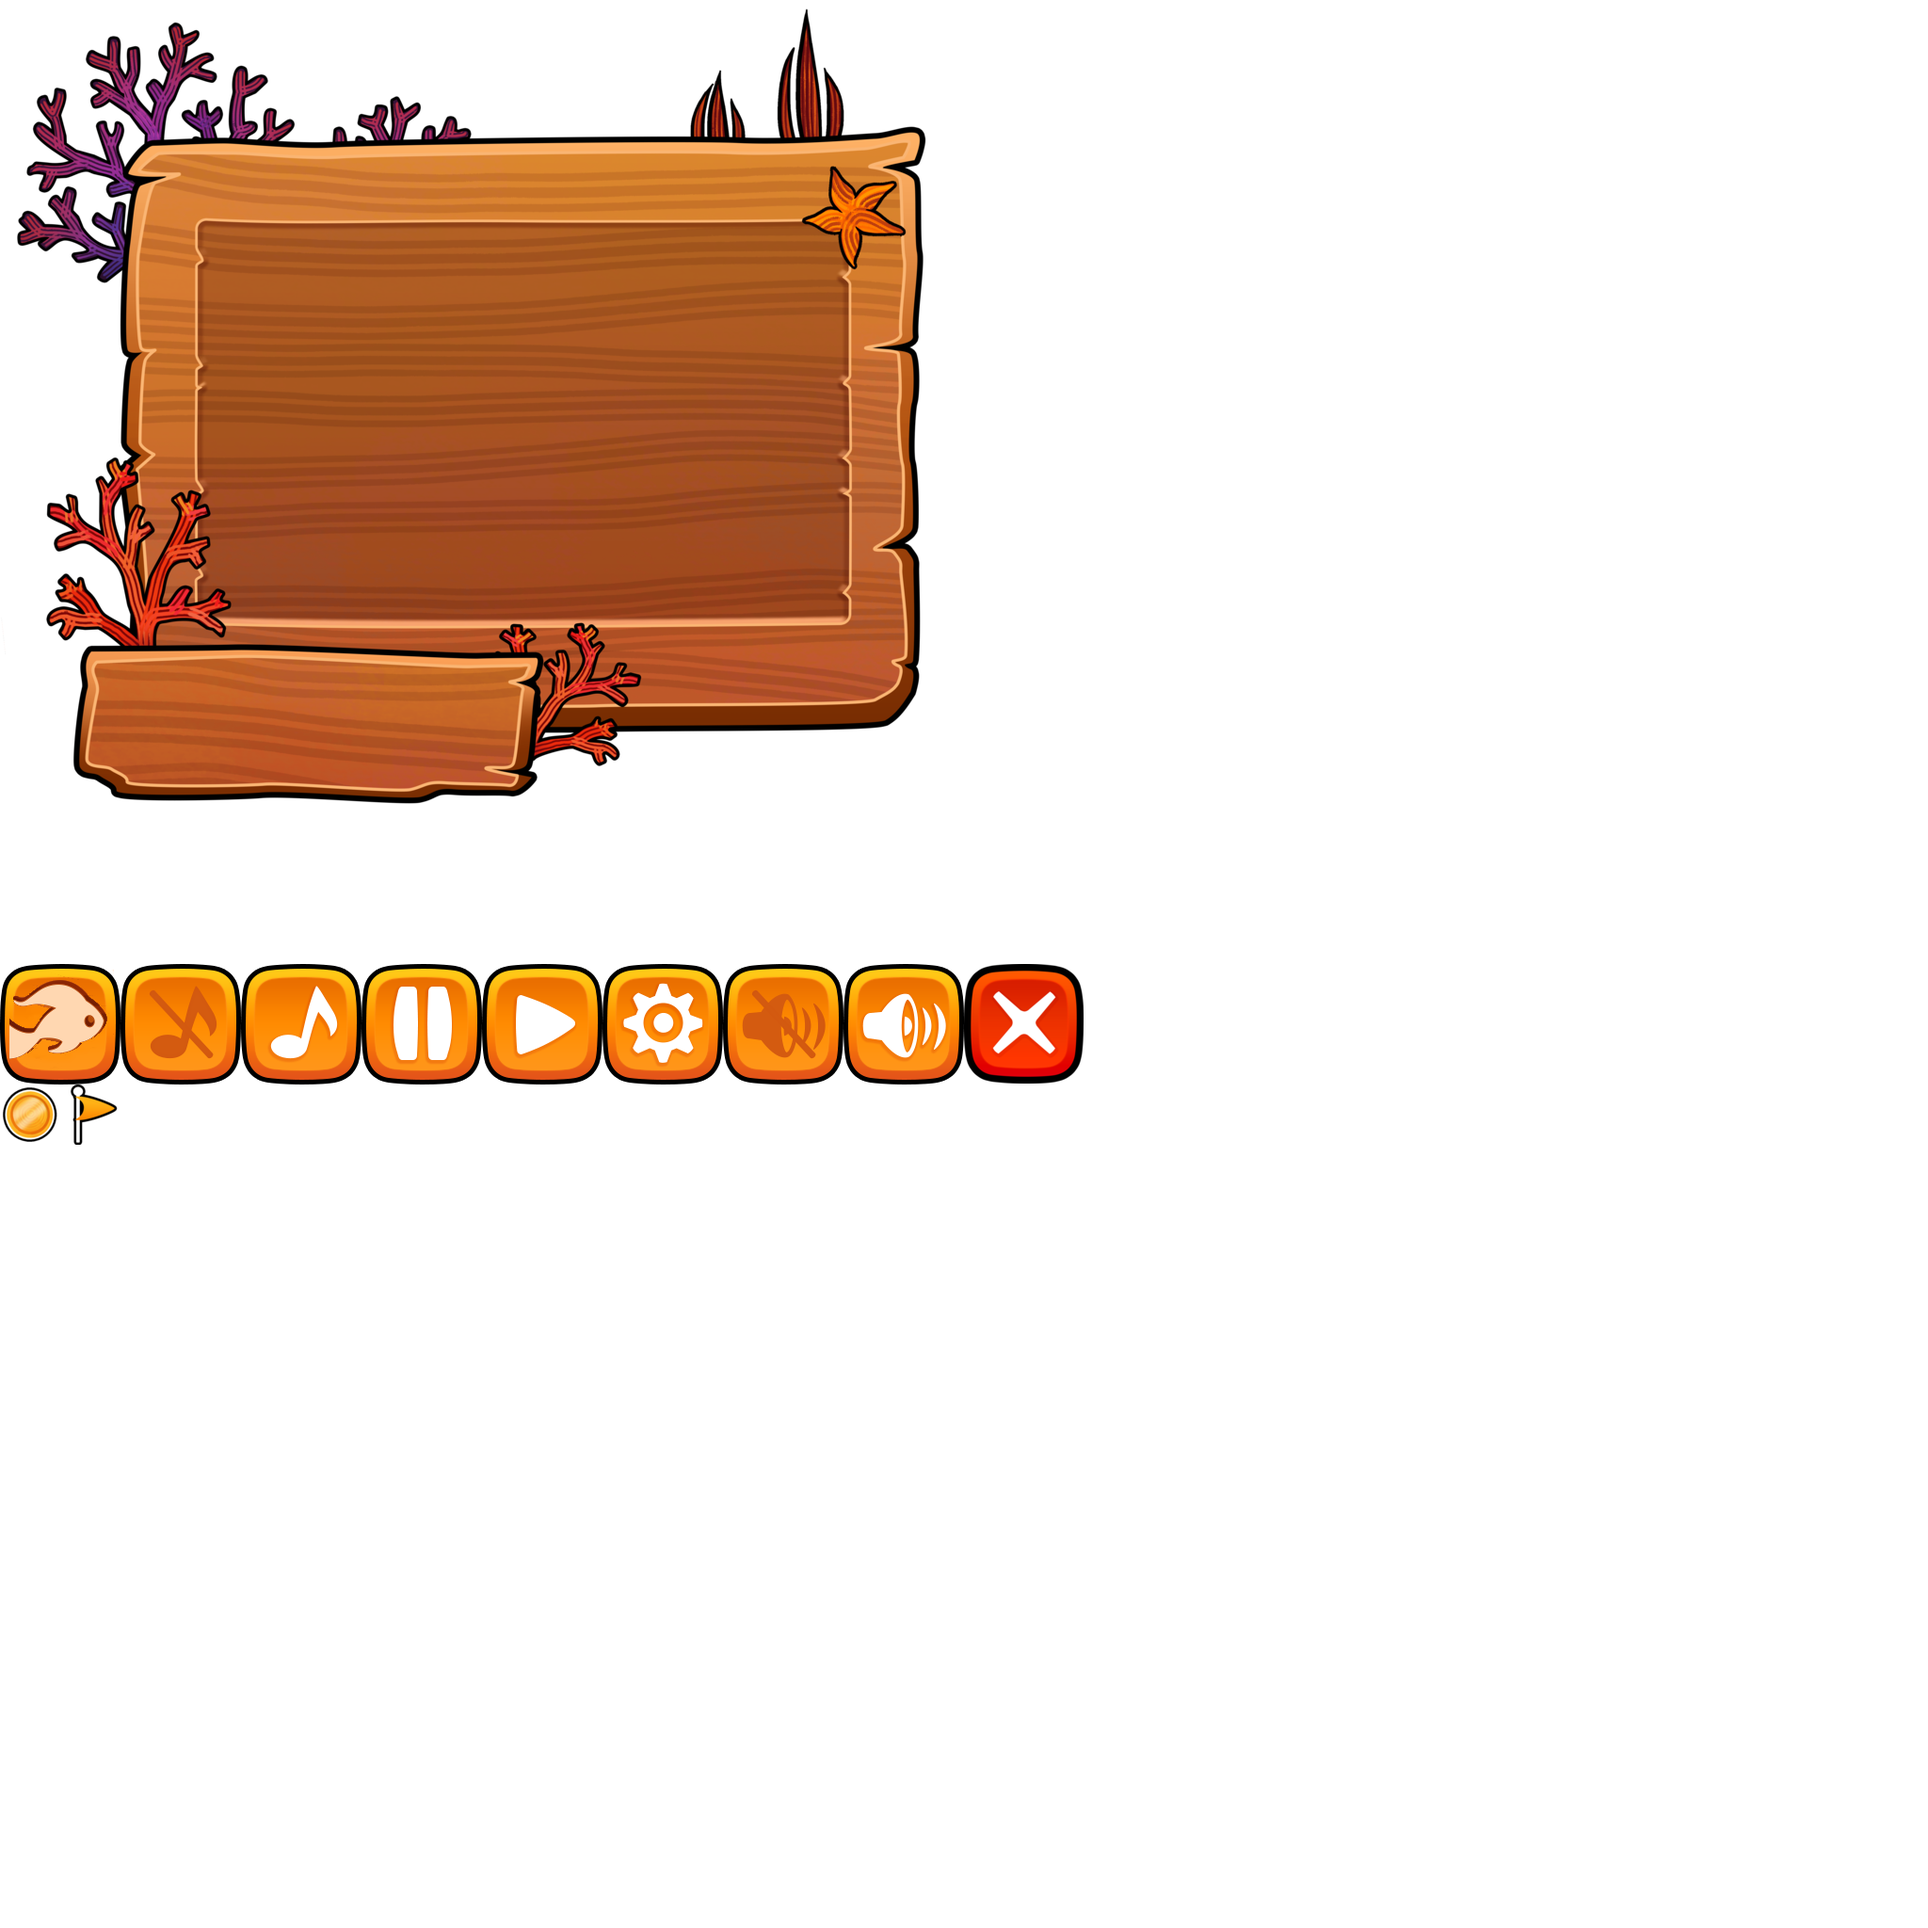
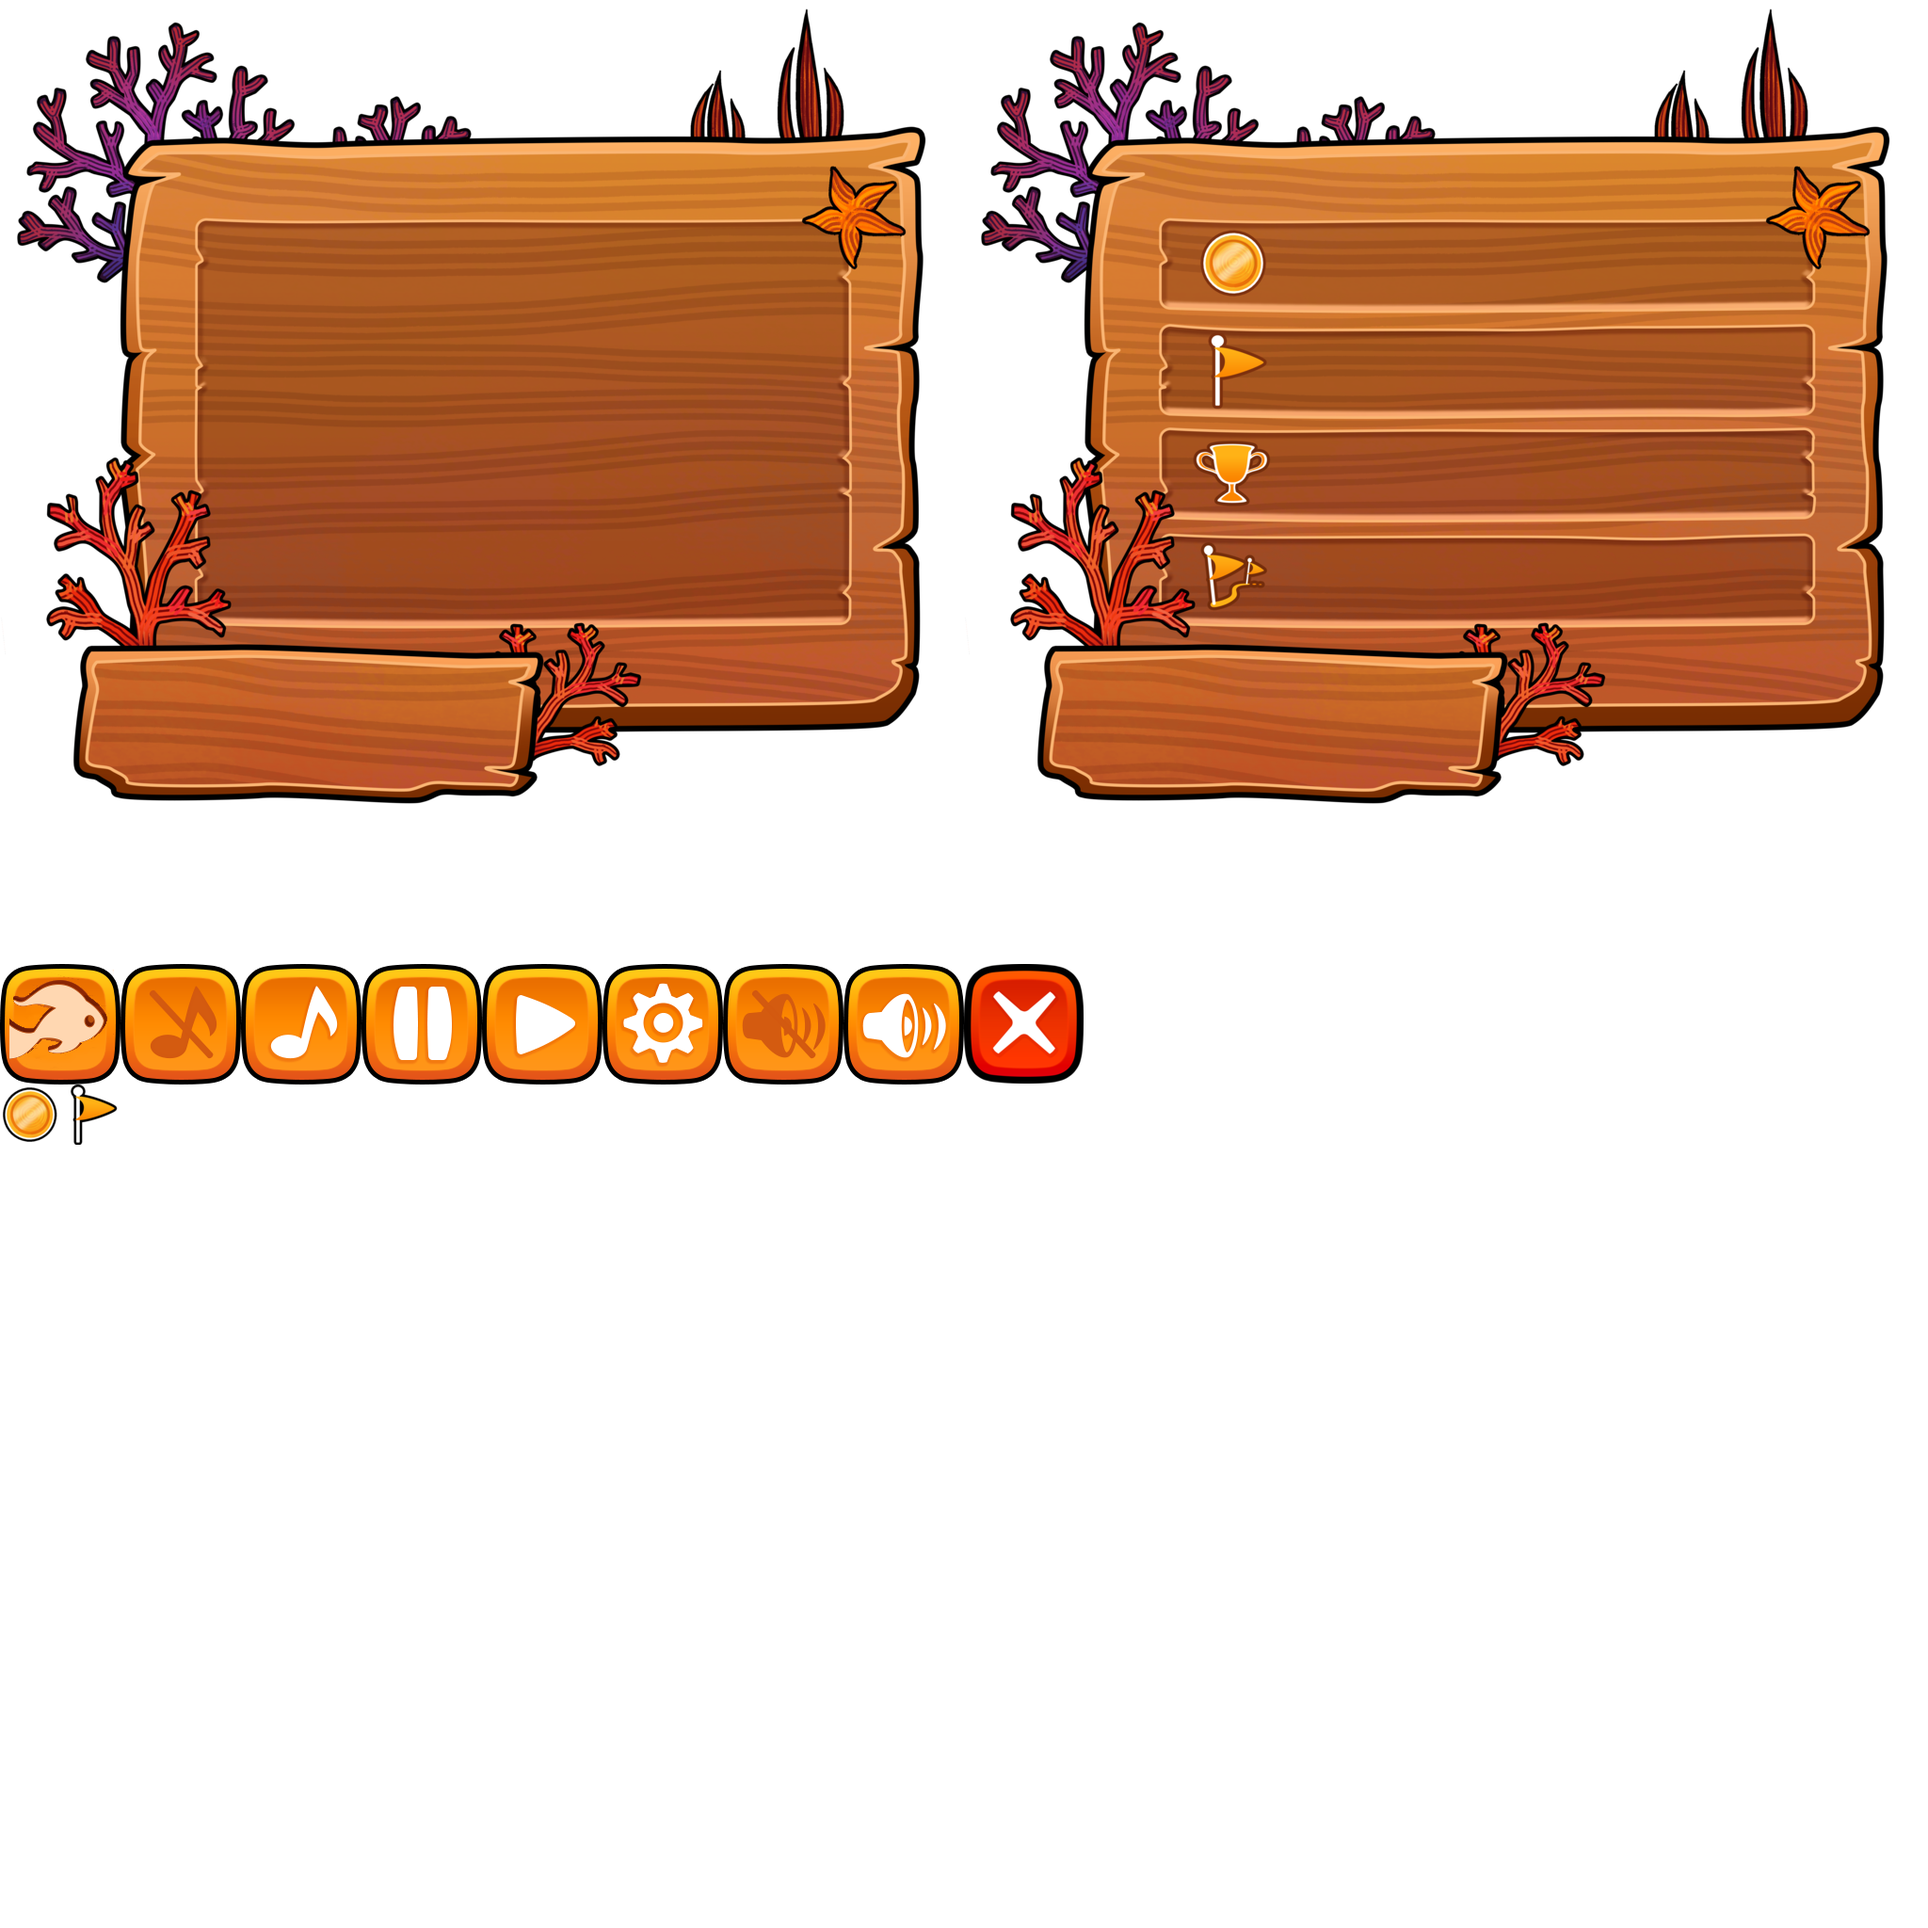
+ Add ResultDialog (:WIP: no data, always on). : Fix UiVbox to go top down.

Changed region(s): [[0.5, 0.0, 1.0, 0.4375]]

diff --git a/fiiish-rs/src/fiiish/result_dialog.rs b/fiiish-rs/src/fiiish/result_dialog.rs
@@ -1,0 +1,164 @@
+
+use std::rc::Rc;
+use std::cell::RefCell;
+
+use std::sync::mpsc::Sender;
+
+use crate::fiiish::game::Game;
+use crate::math::Vector2;
+use crate::renderer::Color;
+use crate::ui::{
+	UiBlock,
+	UiButton,
+	UiElement,
+	UiElementContainer,
+	UiElementContainerData,
+	UiElementContainerHandle,
+	UiEvent,
+	UiEventResponse,
+	UiEventResponseButtonClicked,
+	UiImage,
+	UiHbox,
+	UiLabel,
+	UiToggleButton,
+	UiVbox,
+};
+
+#[derive(Debug)]
+pub struct ResultDialog {
+	game: Rc< RefCell< Game > >,
+}
+
+impl ResultDialog {
+	pub fn new( game: &mut Rc< RefCell< Game > > ) -> Self {
+		Self {
+			game: game.clone(),
+		}
+	}
+}
+
+impl UiElement for ResultDialog {
+	fn as_any(&self) -> &dyn std::any::Any {
+		self
+	}
+	fn as_any_mut(&mut self) -> &mut dyn std::any::Any {
+		self
+	}
+	fn setup_within_container( &mut self, container: &mut UiElementContainerData ) {
+		let mut background = container.add_child_element( UiImage::new( "screen_frame", &Vector2::new( 1024.0, 1024.0 ) ) );
+
+		{
+			let mut parent = background.borrow_mut();
+			let mut vbox = UiVbox::new();
+			// hbox.set_padding( 0.0 );
+			let mut vbox = parent.add_child_element( vbox );
+			{
+				let mut parent = vbox.borrow_mut();
+
+				parent.add_child_element( UiBlock::new( &Vector2::new( 16.0, 240.0 ), &Color::from_rgba( 0.2, 0.6, 0.8, 0.5 ) ) ); // top space
+
+				let mut hbox = UiHbox::new();
+				// hbox.set_padding( 0.0 );
+				let mut hbox = parent.add_child_element( hbox );
+				// center box with actual results
+				{
+					let mut parent = hbox.borrow_mut();
+					parent.add_child_element( UiBlock::new( &Vector2::new( 350.0, 16.0 ), &Color::from_rgba( 0.8, 0.2, 0.8, 0.5 ) ) ); // left space
+					{
+						parent.add_child_element( UiBlock::new( &Vector2::new( 520.0, 412.0 ), &Color::from_rgba( 0.2, 0.2, 0.8, 0.5 ) ) ); // placeholder
+					}
+					parent.add_child_element( UiBlock::new( &Vector2::new( 154.0, 16.0 ), &Color::from_rgba( 0.8, 0.2, 0.2, 0.5 ) ) ); // right space
+				}
+				parent.add_child_element( UiBlock::new( &Vector2::new( 16.0, 54.0 ), &Color::from_rgba( 0.5, 0.5, 0.5, 0.5 ) ) ); // middle space
+				{
+					// button row
+
+					let mut hbox = UiHbox::new();
+					// hbox.set_padding( 0.0 );
+					let mut hbox = parent.add_child_element( hbox );
+					{
+						let mut parent = hbox.borrow_mut();
+						parent.add_child_element( UiBlock::new( &Vector2::new( 128.0, 16.0 ), &Color::from_rgba( 0.8, 0.2, 0.8, 0.5 ) ) ); // left space
+						{
+							let mut button_space = parent.add_child_element( UiBlock::new( &Vector2::new( 384.0, 128.0 ), &Color::from_rgba( 0.5, 0.5, 0.5, 0.5 ) ) ); // placeholder for buttons
+
+							{
+								let mut parent = button_space.borrow_mut();
+								let mut hbox = UiHbox::new();
+								// hbox.set_padding( 0.0 );
+								let mut hbox = parent.add_child_element( hbox );
+								{
+									let mut parent = hbox.borrow_mut();
+									let mut play_button = parent.add_child_element( UiButton::new( "button_play", &Vector2::new( 128.0, 128.0 ) ) );
+									play_button.borrow_mut().set_name( "PlayButton" );
+									parent.add_child_element( UiBlock::new( &Vector2::new( 256.0, 16.0 ), &Color::from_rgba( 0.8, 0.2, 0.2, 0.5 ) ) ); // right space
+								}
+							}
+						}
+						parent.add_child_element( UiBlock::new( &Vector2::new( 512.0, 16.0 ), &Color::from_rgba( 0.8, 0.2, 0.2, 0.5 ) ) ); // right space
+					}
+				}
+				parent.add_child_element( UiBlock::new( &Vector2::new( 16.0, 190.0 ), &Color::from_rgba( 0.5, 0.5, 0.5, 0.5 ) ) ); // bottom space
+			}
+		}
+		/*
+
+		let mut hbox = UiHbox::new();
+		hbox.set_padding( 16.0 );
+
+		let mut background = background.borrow_mut();
+		let mut hbox = background.add_child_element( hbox ).borrow_mut();
+
+		let mut vbox = UiVbox::new();
+		vbox.set_padding( 16.0 );
+		let mut vbox = container.add_child_element( vbox );
+
+		let mut vbox = vbox.borrow_mut();
+
+		{
+			let mut hbox = UiHbox::new();
+			hbox.set_padding( 16.0 );
+			let mut hbox = UiElementContainer::new_from_element( hbox );
+			hbox.add_child_element( UiLabel::new( &Vector2::new( 128.0, 64.0 ), "[DISTANCE]" ) );
+			hbox.add_child_element( UiImage::new( "mini_icon_flag", &Vector2::new( 64.0, 64.0 ) ) );
+			vbox.add_child( hbox );
+		}
+
+		{
+			let mut hbox = UiHbox::new();
+			hbox.set_padding( 16.0 );
+			let mut hbox = UiElementContainer::new_from_element( hbox );
+			hbox.add_child_element( UiLabel::new( &Vector2::new( 128.0, 64.0 ), "[COINS]" ) );
+			hbox.add_child_element( UiImage::new( "mini_icon_coin", &Vector2::new( 64.0, 64.0 ) ) );
+			vbox.add_child( hbox );
+		}
+		*/
+		container.set_size( background.borrow().size() );
+	}
+	fn update( &mut self, _container: &UiElementContainerData, _time_step: f64 ) {
+		let game = self.game.borrow_mut();
+
+		// :TODO: update coin & distance labels
+		/*
+		if let Some( music_togglebutton ) = &mut self.music_togglebutton {
+			let mut music_togglebutton = music_togglebutton.borrow_mut();
+			let music_togglebutton = music_togglebutton.borrow_element_mut();
+			match music_togglebutton.as_any_mut().downcast_mut::<UiToggleButton>() {
+				Some( mtb ) => {
+					if game.is_music_enabled() {
+						mtb.goto_a();
+					} else {
+						mtb.goto_b();
+					}
+				},
+				None => panic!("{:?} isn't a UiToggleButton!", &music_togglebutton),
+			};
+		}
+		*/
+	}
+
+	fn handle_ui_event( &mut self, _container: &mut UiElementContainerData, _event: &UiEvent, _event_sender: &Sender< Box< dyn UiEventResponse > > ) -> Option< Box < dyn UiEventResponse > > {
+		// stop traversal into children
+		None
+	}
+}

diff --git a/fiiish-rs/src/fiiish/game_ui.rs b/fiiish-rs/src/fiiish/game_ui.rs
@@ -10,6 +10,7 @@ use std::sync::mpsc::{
 use crate::DebugRenderer;
 use crate::fiiish::CounterDialog;
 use crate::fiiish::PauseDialog;
+use crate::fiiish::ResultDialog;
 use crate::fiiish::SettingsDialog;
 use crate::fiiish::game::Game;
 use crate::fiiish::effect_ids::EffectId;
@@ -103,19 +104,6 @@ impl GameUi {
 		pause_dialog.borrow_mut().set_name( "PauseDialog" );
 		pause_dialog.borrow_mut().fade_out( 0.0 );
 
-		// SettingDialog
-		match root.borrow_element_mut().as_any_mut().downcast_mut::<UiGravityBox>() {
-				Some( root_gravity_box ) => {
-					root_gravity_box.set_gravity( &Vector2::new( 0.0, 0.0 ) );
-				},
-				None => (),
-		};
-
-		let settings_dialog = root.add_child_element( SettingsDialog::new( &mut self.game.as_mut().unwrap() )  );
-		settings_dialog.borrow_mut().set_name( "SettingsDialog" );
-		settings_dialog.borrow_mut().fade_out( 0.0 );
-
-
 		// CounterDialog
 		match root.borrow_element_mut().as_any_mut().downcast_mut::<UiGravityBox>() {
 				Some( root_gravity_box ) => {
@@ -128,6 +116,32 @@ impl GameUi {
 		counter_dialog.borrow_mut().set_name( "CounterDialog" );
 		counter_dialog.borrow_mut().fade_out( 0.0 );
 		counter_dialog.borrow_mut().fade_in( 1.0 );
+
+		// SettingDialog
+		match root.borrow_element_mut().as_any_mut().downcast_mut::<UiGravityBox>() {
+				Some( root_gravity_box ) => {
+					root_gravity_box.set_gravity( &Vector2::new( 0.0, 0.0 ) );
+				},
+				None => (),
+		};
+
+		let settings_dialog = root.add_child_element( SettingsDialog::new( &mut self.game.as_mut().unwrap() )  );
+		settings_dialog.borrow_mut().set_name( "SettingsDialog" );
+		settings_dialog.borrow_mut().fade_out( 0.0 );
+
+		// ResultDialog
+		match root.borrow_element_mut().as_any_mut().downcast_mut::<UiGravityBox>() {
+				Some( root_gravity_box ) => {
+					root_gravity_box.set_gravity( &Vector2::new( 0.0, 0.0 ) );
+				},
+				None => (),
+		};
+
+		let result_dialog = root.add_child_element( ResultDialog::new( &mut self.game.as_mut().unwrap() )  );
+		result_dialog.borrow_mut().set_name( "ResultDialog" );
+		result_dialog.borrow_mut().fade_out( 0.0 );
+		result_dialog.borrow_mut().fade_in( 1.0 );
+
 
 
 		root.layout( &Vector2::zero() );

diff --git a/fiiish-rs/src/ui/ui_vbox.rs b/fiiish-rs/src/ui/ui_vbox.rs
@@ -79,11 +79,12 @@ impl UiElement for UiVbox {
 
 		c_positions_y.push( 0.0 );
 
-		let mut cpos = Vector2::new( 0.0, -0.5*total_size.y - self.padding );
+//		let mut cpos = Vector2::new( 0.0, -0.5*total_size.y - self.padding );
+		let mut cpos = Vector2::new( 0.0,  0.5*total_size.y - self.padding );
 
 		for (i, c ) in container.borrow_children_mut().iter_mut().enumerate() {
 			let y = c_positions_y[ i ];
-			cpos.y += y + padding;
+			cpos.y -= y + padding;
 			c.borrow_mut().layout( &cpos );
 		}
 

diff --git a/fiiish-rs/src/fiiish.rs b/fiiish-rs/src/fiiish.rs
@@ -14,6 +14,8 @@ mod counter_dialog;
 	pub use counter_dialog::CounterDialog;
 mod pause_dialog;
 	pub use pause_dialog::PauseDialog;
+mod result_dialog;
+	pub use result_dialog::ResultDialog;
 mod settings_dialog;
 	pub use settings_dialog::SettingsDialog as SettingsDialog;
 

diff --git a/fiiish-rs/TODO.md b/fiiish-rs/TODO.md
@@ -5,6 +5,7 @@
 
 - [ ] Implement UI system
 - [ ] Add result dialog
+- [ ] Add UiSpacer
 
 ## TODO
 
